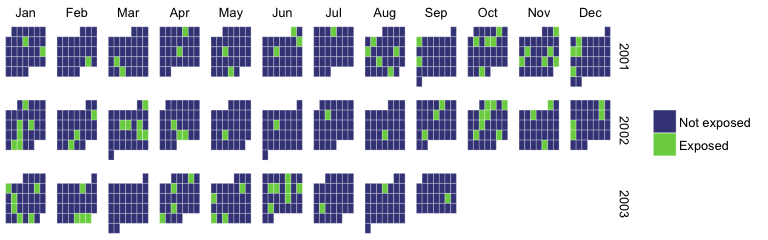
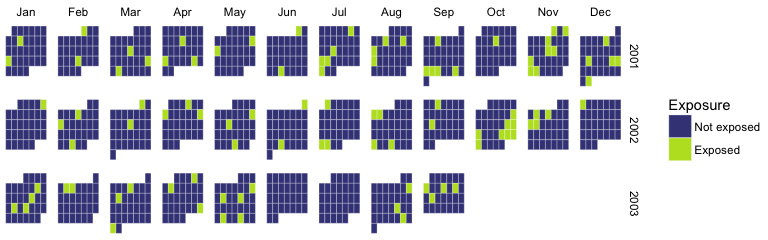
Update README to match vignette

diff --git a/README.md b/README.md
@@ -31,40 +31,24 @@ ex_sim <- eesim(n_reps = 100, n = 10, central = 100, sd = 10,
                 average_outcome = 20, rr = 1.10,
                 model = "spline", df_year = 1)
 head(ex_sim[[1]])
-#>     Estimate    Std.Error  t.value      p.value   lower_ci   upper_ci
-#> 1 0.09533666 4.916188e-05 1939.239 2.560664e-21 0.09524031 0.09543302
-#> 2 0.09536489 4.673736e-05 2040.443 1.793504e-21 0.09527329 0.09545649
-#> 3 0.09532688 4.300159e-05 2216.822 1.003824e-21 0.09524260 0.09541116
-#> 4 0.09533395 8.181173e-05 1165.285 9.051988e-20 0.09517361 0.09549430
-#> 5 0.09546160 7.228585e-05 1320.613 3.770002e-20 0.09531993 0.09560328
-#> 6 0.09552349 9.546583e-05 1000.604 2.629845e-19 0.09533638 0.09571060
+#>     Estimate    Std.Error   t.value      p.value   lower_ci   upper_ci
+#> 1 0.09538419 1.183634e-04  805.8591 1.196594e-18 0.09515221 0.09561618
+#> 2 0.09529127 7.454107e-05 1278.3728 4.733330e-20 0.09514517 0.09543737
+#> 3 0.09527069 5.934210e-05 1605.4486 9.607198e-21 0.09515438 0.09538700
+#> 4 0.09540133 4.692537e-05 2033.0436 1.839696e-21 0.09530936 0.09549330
+#> 5 0.09518362 6.996906e-05 1360.3674 3.063208e-20 0.09504649 0.09532076
+#> 6 0.09525668 8.699193e-05 1095.0060 1.399110e-19 0.09508618 0.09542718
 ex_sim[[2]]
 #>     beta_hat   rr_hat var_across_betas mean_beta_var percent_bias coverage
-#> 1 0.09532635 1.100018     9.314353e-09  7.531457e-09 -0.001617087     0.87
+#> 1 0.09530329 1.099992     7.061093e-09  7.493767e-09 0.0006885681      0.9
 #>   power
 #> 1     1
 ```
 
-The first element of the returned object can be used to explore the behavior of individual simulations. For example, to look at the relative risk point estimate and 95% confidence interval from each of the 100 simulations, as well as which 95% confidence intervals include the true relative risk using the following call:
+The first element of the returned object can be used to explore the behavior of individual simulations. For example, to look at the relative risk point estimate and 95% confidence interval from each of the 100 simulations, as well as which 95% confidence intervals include the true relative risk using the `coverage_plot` function that comes with the package:
 
 ``` r
-ex_sim[[1]] %>%
-  arrange(Estimate) %>%
-  mutate(index = 1:n(),
-         rr = exp(Estimate),
-         lower_rr = exp(lower_ci),
-         upper_rr = exp(upper_ci),
-         includes_true = lower_rr < 1.10 & 1.10 < upper_rr) %>%
-  ggplot(aes(x = index, y = rr, color = includes_true)) + 
-  coord_flip() + 
-  geom_point() + 
-  geom_errorbar(aes(ymin = lower_rr, ymax = upper_rr)) + 
-  geom_hline(yintercept = 1.10, linetype = 2) + 
-  scale_color_manual(values = c("red", "darkgray")) +
-  theme(legend.position="none",
-        panel.background = element_rect(fill='white', colour='white')) + 
-  ylab("Relative risk") +
-  scale_x_discrete(breaks = NULL) + xlab("") 
+coverage_plot(ex_sim[[1]], true_param = 1.10)
 ```
 
 <img src="README-unnamed-chunk-4-1.png" style="display: block; margin: auto;" />
@@ -95,11 +79,11 @@ x_cont <- sim_exposure(n = 1000, central = 50, sd = 5,
                       exposure_type = "continuous") 
 x_cont %>% slice(1:5)
 #>         date        x
-#> 1 2001-01-01 57.08988
-#> 2 2001-01-02 51.50647
-#> 3 2001-01-03 47.25674
-#> 4 2001-01-04 44.60190
-#> 5 2001-01-05 52.15883
+#> 1 2001-01-01 55.09400
+#> 2 2001-01-02 45.61076
+#> 3 2001-01-03 52.44021
+#> 4 2001-01-04 49.34614
+#> 5 2001-01-05 48.38926
 ```
 
 ``` r
@@ -108,22 +92,10 @@ ggplot(x_cont, aes(x = date, y = x)) + geom_point(alpha = 0.2)
 
 <img src="README-unnamed-chunk-7-1.png" style="display: block; margin: auto;" />
 
+You can plot a calendar plot of this simulated exposure time series using the `calendar_plot` function that comes with the package:
+
 ``` r
-x_cont %>% 
-  mutate(Weekday = lubridate::wday(date), 
-         Month = lubridate::month(date, label = TRUE),
-         Year = lubridate::year(date),
-         Exposure = x) %>% 
-  group_by(Year, Month) %>%
-  dplyr::mutate(saturday = lag(Weekday) == 7,
-                saturday = ifelse(is.na(saturday), 0, saturday),
-                Week = 1 + cumsum(saturday)) %>%
-  ungroup() %>%
-  ggplot(aes(x = Weekday, y = Week, fill = Exposure)) + 
-   geom_tile(colour = "white") + 
-   facet_grid(Year ~ Month, scales = "free") + 
-  scale_fill_gradientn(colours = viridis(256)) + 
-  scale_y_reverse() + theme_void()
+calendar_plot(x_cont, type = "continuous")
 ```
 
 <img src="README-unnamed-chunk-8-1.png" style="display: block; margin: auto;" />
@@ -143,22 +115,7 @@ x_bin %>% slice(1:5)
 ```
 
 ``` r
-x_bin %>% 
-  mutate(Weekday = lubridate::wday(date), 
-         Month = lubridate::month(date, label = TRUE),
-         Year = lubridate::year(date),
-         Exposure = factor(x, levels = c(0, 1), 
-                    labels = c("Not exposed", "Exposed"))) %>% 
-  group_by(Year, Month) %>%
-  dplyr::mutate(saturday = lag(Weekday) == 7,
-                saturday = ifelse(is.na(saturday), 0, saturday),
-                Week = 1 + cumsum(saturday)) %>%
-  ungroup() %>%
-  ggplot(aes(x = Weekday, y = Week, fill = Exposure)) + 
-   geom_tile(colour = "white") + 
-   facet_grid(Year ~ Month, scales = "free") + 
-  scale_fill_manual(values = c("#414487FF", "#7AD151FF")) + 
-  scale_y_reverse() + theme_void()
+calendar_plot(x_bin, type = "discrete", labels = c("Not exposed", "Exposed"))
 ```
 
 <img src="README-unnamed-chunk-10-1.png" style="display: block; margin: auto;" />
@@ -176,33 +133,20 @@ testexp <- sim_exposure(n=1000, central = 50, sd = 5, trend = "cos1linear",
                         amp = .6, exposure_type = "continuous")
 head(testexp)
 #>         date        x
-#> 1 2001-01-01 57.25718
-#> 2 2001-01-02 65.25161
-#> 3 2001-01-03 54.45958
-#> 4 2001-01-04 49.72080
-#> 5 2001-01-05 48.35436
-#> 6 2001-01-06 59.46657
-qplot(testexp$date, testexp$x)+geom_point()+coord_cartesian(ylim = c(0,110)) + labs(title = "Exposure with a cos1linear trend", x = "Date", y="Exposure")+theme_bw()
+#> 1 2001-01-01 60.14935
+#> 2 2001-01-02 62.20198
+#> 3 2001-01-03 53.13609
+#> 4 2001-01-04 61.56852
+#> 5 2001-01-05 59.14720
+#> 6 2001-01-06 60.00853
+qplot(testexp$date, testexp$x)+geom_point()+coord_cartesian(ylim = c(0,110)) + 
+  labs(title = "Exposure with a cos1linear trend", x = "Date", y="Exposure")+theme_bw()
 ```
 
 <img src="README-unnamed-chunk-12-1.png" style="display: block; margin: auto;" />
 
 ``` r
-testexp %>% 
-  mutate(Weekday = lubridate::wday(date), 
-         Month = lubridate::month(date, label = TRUE),
-         Year = lubridate::year(date),
-         Exposure = x) %>% 
-  group_by(Year, Month) %>%
-  dplyr::mutate(saturday = lag(Weekday) == 7,
-                saturday = ifelse(is.na(saturday), 0, saturday),
-                Week = 1 + cumsum(saturday)) %>%
-  ungroup() %>%
-  ggplot(aes(x = Weekday, y = Week, fill = Exposure)) + 
-   geom_tile(colour = "white") + 
-   facet_grid(Year ~ Month, scales = "free") + 
-  scale_fill_gradientn(colours = viridis(256)) + 
-  scale_y_reverse() + theme_void()
+calendar_plot(testexp, type = "continuous")
 ```
 
 <img src="README-unnamed-chunk-13-1.png" style="display: block; margin: auto;" />
@@ -212,27 +156,15 @@ The default amplitude for the trend is .6, but we can adjust the "amp" parameter
 ``` r
 smallamp <- sim_exposure(n=1000, central = 50, sd = 5, trend = "cos1linear",
                         amp = .2, exposure_type = "continuous")
-qplot(smallamp$date, smallamp$x)+geom_point()+coord_cartesian(ylim = c(0,110))+labs(title = "Cos1linear exposure with smaller amplitude", x="Date", y="Exposure") + theme_bw()
+qplot(smallamp$date, smallamp$x) +
+  geom_point() + coord_cartesian(ylim = c(0,110)) +
+  labs(title = "Cos1linear exposure with smaller amplitude", x="Date", y="Exposure") + theme_bw()
 ```
 
 <img src="README-unnamed-chunk-14-1.png" style="display: block; margin: auto;" />
 
 ``` r
-smallamp %>% 
-  mutate(Weekday = lubridate::wday(date), 
-         Month = lubridate::month(date, label = TRUE),
-         Year = lubridate::year(date),
-         Exposure = x) %>% 
-  group_by(Year, Month) %>%
-  dplyr::mutate(saturday = lag(Weekday) == 7,
-                saturday = ifelse(is.na(saturday), 0, saturday),
-                Week = 1 + cumsum(saturday)) %>%
-  ungroup() %>%
-  ggplot(aes(x = Weekday, y = Week, fill = Exposure)) + 
-   geom_tile(colour = "white") + 
-   facet_grid(Year ~ Month, scales = "free") + 
-  scale_fill_gradientn(colours = viridis(256)) + 
-  scale_y_reverse() + theme_void()
+calendar_plot(smallamp, type = "continuous")
 ```
 
 <img src="README-unnamed-chunk-15-1.png" style="display: block; margin: auto;" />
@@ -245,9 +177,9 @@ testbin <- sim_exposure(n=1000, central = c(.1,.1,.2,.3,.4,.4,.5,.6,.5,.3,.2,.1)
                         start.date = "2002-06-01")
 head(testbin)
 #>         date x
-#> 1 2002-06-01 1
+#> 1 2002-06-01 0
 #> 2 2002-06-02 0
-#> 3 2002-06-03 1
+#> 3 2002-06-03 0
 #> 4 2002-06-04 0
 #> 5 2002-06-05 1
 #> 6 2002-06-06 0
@@ -257,22 +189,7 @@ qplot(testbin$date, testbin$x)+geom_point()+labs(title = "Binary exposure data w
 <img src="README-unnamed-chunk-16-1.png" style="display: block; margin: auto;" />
 
 ``` r
-testbin %>% 
-  mutate(Weekday = lubridate::wday(date), 
-         Month = lubridate::month(date, label = TRUE),
-         Year = lubridate::year(date),
-         Exposure = factor(x, levels = c(0, 1), 
-                    labels = c("Not exposed", "Exposed"))) %>% 
-  group_by(Year, Month) %>%
-  dplyr::mutate(saturday = lag(Weekday) == 7,
-                saturday = ifelse(is.na(saturday), 0, saturday),
-                Week = 1 + cumsum(saturday)) %>%
-  ungroup() %>%
-  ggplot(aes(x = Weekday, y = Week, fill = Exposure)) + 
-   geom_tile(colour = "white") + 
-   facet_grid(Year ~ Month, scales = "free") + 
-  scale_fill_manual(values = c("#414487FF", "#7AD151FF")) + 
-  scale_y_reverse() + theme_void()
+calendar_plot(testbin, type = "discrete", labels = c("Not exposed", "Exposed"))
 ```
 
 <img src="README-unnamed-chunk-17-1.png" style="display: block; margin: auto;" />
@@ -292,27 +209,14 @@ Here is an example of generating health outcome data with an upward linear trend
 ``` r
 testexp2 <- sim_exposure(n=1000, central = 100, sd = 10, trend = "cos1", exposure_type = "continuous")
 testout <- sim_outcome(exposure = testexp2, average_outcome = 22, trend = "linear", rr = 1.01)
-qplot(testout$date, testout$outcome)+geom_point()+labs(title = "Health outcomes with a linear trend", x="Date", y="Outcome") + theme_bw()
+qplot(testout$date, testout$outcome) + geom_point() +
+  labs(title = "Health outcomes with a linear trend", x="Date", y="Outcome") + theme_bw()
 ```
 
 <img src="README-unnamed-chunk-19-1.png" style="display: block; margin: auto;" />
 
 ``` r
-testout %>% 
-  mutate(Weekday = lubridate::wday(date), 
-         Month = lubridate::month(date, label = TRUE),
-         Year = lubridate::year(date),
-         Exposure = outcome) %>% 
-  group_by(Year, Month) %>%
-  dplyr::mutate(saturday = lag(Weekday) == 7,
-                saturday = ifelse(is.na(saturday), 0, saturday),
-                Week = 1 + cumsum(saturday)) %>%
-  ungroup() %>%
-  ggplot(aes(x = Weekday, y = Week, fill = Exposure)) + 
-   geom_tile(colour = "white") + 
-   facet_grid(Year ~ Month, scales = "free") + 
-  scale_fill_gradientn(colours = viridis(256)) + 
-  scale_y_reverse() + theme_void()
+calendar_plot(testout %>% select(date, outcome), type = "continuous")
 ```
 
 <img src="README-unnamed-chunk-20-1.png" style="display: block; margin: auto;" />
@@ -324,23 +228,23 @@ eesim next uses many generated data sets to fit statistical models to relate exp
 Here is an example of fitting the spline model with 7 degrees of freedom:
 
 ``` r
-sims <- create_sims(n_reps=10, n=100, central = 100, sd = 10,
+sims <- create_sims(n_reps = 10, n = 100, central = 100, sd = 10,
              exposure_type="continuous", exposure_trend = "cos1",
              exposure_amp = .6, average_outcome = 22,
              outcome_trend = "no trend", outcome_amp = .6, rr = 1.01)
 fits <- fit_mods(outcome = sims, model = "spline", df_year = 7)
 fits
 #>       Estimate   Std.Error  t.value      p.value    lower_ci   upper_ci
-#> 1  0.010586851 0.001583055 6.687608 1.502688e-09 0.007484120 0.01368958
-#> 2  0.009372260 0.001363494 6.873708 6.291086e-10 0.006699861 0.01204466
-#> 3  0.009195273 0.001269303 7.244350 1.087964e-10 0.006707485 0.01168306
-#> 4  0.009129928 0.001237680 7.376648 5.781131e-11 0.006704120 0.01155574
-#> 5  0.009656006 0.001133307 8.520200 2.226316e-13 0.007434765 0.01187725
-#> 6  0.012572399 0.001454722 8.642473 1.220013e-13 0.009721196 0.01542360
-#> 7  0.010344257 0.001360217 7.604860 1.929996e-11 0.007678281 0.01301023
-#> 8  0.008963447 0.001327339 6.752943 1.107860e-09 0.006361910 0.01156498
-#> 9  0.008963204 0.001418718 6.317820 8.276811e-09 0.006182568 0.01174384
-#> 10 0.011746319 0.001380077 8.511351 2.325280e-13 0.009041418 0.01445122
+#> 1  0.011280449 0.001277840 8.827746 4.896215e-14 0.008775928 0.01378497
+#> 2  0.008780129 0.001196216 7.339921 6.892369e-11 0.006435589 0.01112467
+#> 3  0.009564164 0.001385761 6.901739 5.514337e-10 0.006848121 0.01228021
+#> 4  0.008372466 0.001272358 6.580274 2.474207e-09 0.005878689 0.01086624
+#> 5  0.010340983 0.001344296 7.692490 1.264016e-11 0.007706211 0.01297575
+#> 6  0.009449141 0.001350507 6.996737 3.523826e-10 0.006802196 0.01209609
+#> 7  0.011291006 0.001333248 8.468799 2.866004e-13 0.008677889 0.01390412
+#> 8  0.011843253 0.001380390 8.579644 1.662040e-13 0.009137739 0.01454877
+#> 9  0.009686359 0.001237789 7.825532 6.635552e-12 0.007260337 0.01211238
+#> 10 0.011151598 0.001289402 8.648660 1.183412e-13 0.008624417 0.01367878
 ```
 
 ### Evaluating the models
@@ -352,7 +256,7 @@ Here is an example of the use of the check\_sims function:
 ``` r
 check_sims(fits, true_rr = 1.01)
 #>     beta_hat   rr_hat var_across_betas mean_beta_var percent_bias coverage
-#> 1 0.01005299 1.010104     1.574231e-06  1.843815e-06  -0.01033777        1
+#> 1 0.01017595 1.010229     1.396156e-06  1.711174e-06  -0.02262777        1
 #>   power
 #> 1     1
 ```
@@ -377,33 +281,19 @@ sintrend <- function(n, mu, y){
 customexp <- sim_exposure(n=1000, exposure_type = "continuous", cust_exp_func = sintrend, cust_exp_args = list(n=1000, mu = 75, y=3))
 head(customexp)
 #>         date        x
-#> 1 2001-01-01 75.48112
-#> 2 2001-01-02 75.25652
-#> 3 2001-01-03 75.03134
-#> 4 2001-01-04 76.81056
-#> 5 2001-01-05 74.83267
-#> 6 2001-01-06 72.26150
+#> 1 2001-01-01 76.81591
+#> 2 2001-01-02 75.75008
+#> 3 2001-01-03 77.36643
+#> 4 2001-01-04 74.80841
+#> 5 2001-01-05 76.35757
+#> 6 2001-01-06 74.77990
 qplot(customexp$date, customexp$x)+geom_point()+labs(title = "Exposure values with a custom trend", x="Date", y="Exposure")+theme_bw()
 ```
 
 <img src="README-unnamed-chunk-23-1.png" style="display: block; margin: auto;" />
 
 ``` r
-customexp %>% 
-  mutate(Weekday = lubridate::wday(date), 
-         Month = lubridate::month(date, label = TRUE),
-         Year = lubridate::year(date),
-         Exposure = x) %>% 
-  group_by(Year, Month) %>%
-  dplyr::mutate(saturday = lag(Weekday) == 7,
-                saturday = ifelse(is.na(saturday), 0, saturday),
-                Week = 1 + cumsum(saturday)) %>%
-  ungroup() %>%
-  ggplot(aes(x = Weekday, y = Week, fill = Exposure)) + 
-   geom_tile(colour = "white") + 
-   facet_grid(Year ~ Month, scales = "free") + 
-  scale_fill_gradientn(colours = viridis(256)) + 
-  scale_y_reverse() + theme_void()
+calendar_plot(customexp, type = "continuous")
 ```
 
 <img src="README-unnamed-chunk-24-1.png" style="display: block; margin: auto;" />
@@ -445,14 +335,14 @@ ex_sim3 <- eesim(n_reps = 3, n = 10, central = 100, sd = 10,
                 cust_base_func = custombase, cust_base_args = list(n=10, slope = .5,                        intercept = 12), model = "spline", df_year = 1)
 ex_sim3
 #> [[1]]
-#>      Estimate   Std.Error  t.value     p.value     lower_ci   upper_ci
-#> 1 0.008362381 0.002193767 3.811882 0.006611693  0.004062677 0.01266209
-#> 2 0.008460964 0.006648251 1.272660 0.243776981 -0.004569368 0.02149130
-#> 3 0.013311137 0.004911580 2.710154 0.030192287  0.003684618 0.02293766
+#>      Estimate   Std.Error  t.value    p.value     lower_ci   upper_ci
+#> 1 0.004867892 0.003692153 1.318443 0.22885465 -0.002368594 0.01210438
+#> 2 0.016790622 0.007714032 2.176634 0.06596776  0.001671397 0.03190985
+#> 3 0.019943860 0.006317172 3.157087 0.01599315  0.007562430 0.03232529
 #> 
 #> [[2]]
 #>     beta_hat   rr_hat var_across_betas mean_beta_var percent_bias coverage
-#> 1 0.01004483 1.010098     8.004013e-06  2.437849e-05 -0.009717093        1
+#> 1 0.01386746 1.013985     6.322986e-05  3.768165e-05   -0.3945942        1
 #>       power
 #> 1 0.6666667
 ```
